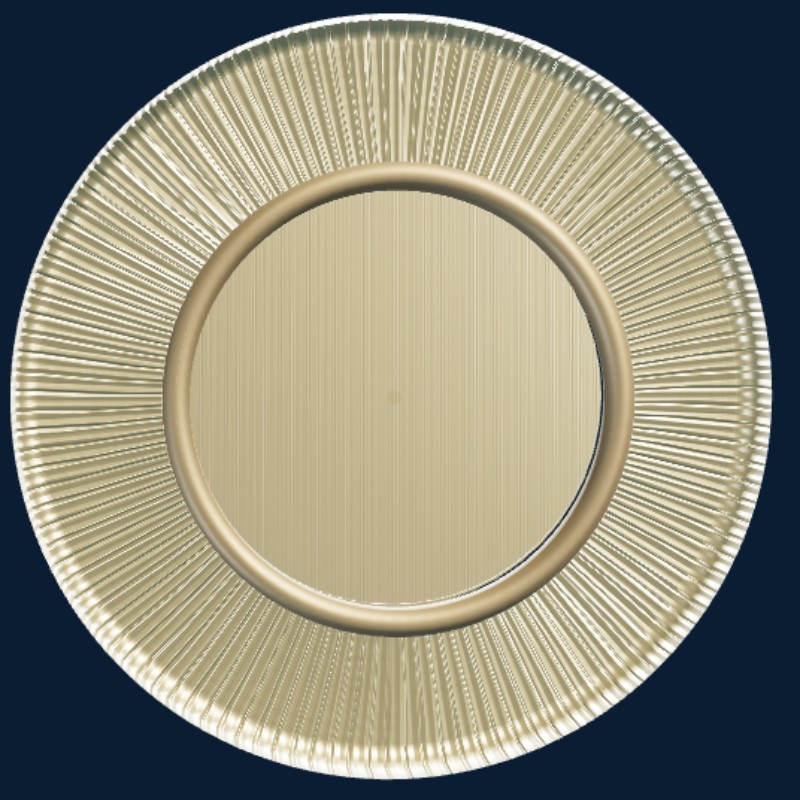
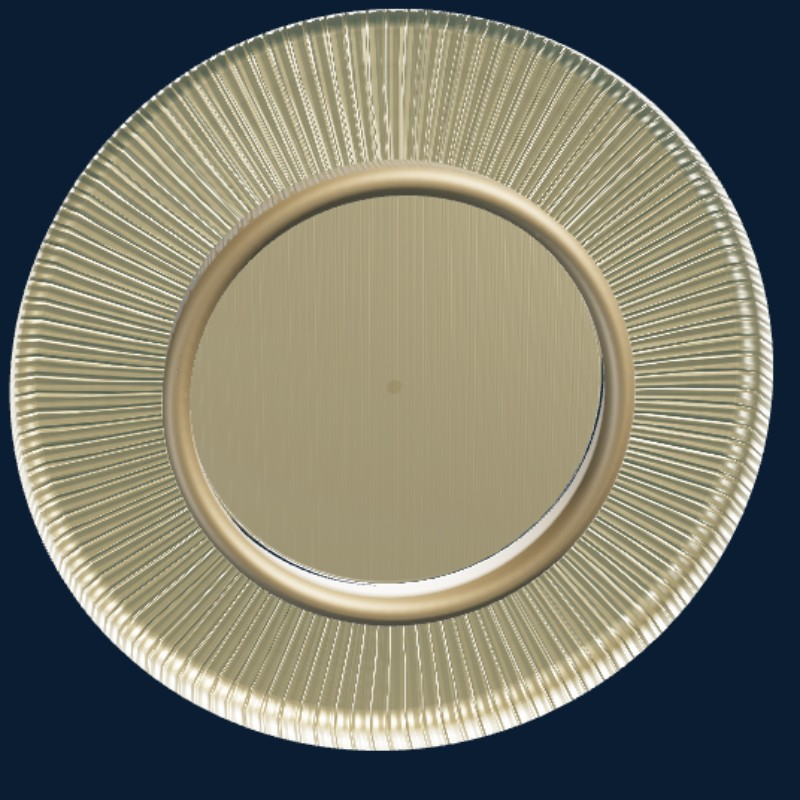
Fix seal edge-on rotation and remove hero video ghost ring
Root causes:
- Ghost ring: the hero backdrop footage (compressed in step 6) already
  contains its own rendered glass-gold medallion baked into the frame.
  Layered under the live Three.js seal at low overlay opacity, its shape
  stayed legible and read as a duplicate ring behind the real one. No
  duplicate mesh or shadow plane was involved -- confirmed via a sweep
  screenshot grid showing exactly one coherent seal shape at every angle.
- Edge-on: the ring/glass/backing are lathe solids of revolution about
  their own face-normal axis; spinning purely around world Y (perpendicular
  to that normal) is a literal coin-flip, geometrically edge-on for an
  instant every 180 degrees regardless of camera position -- confirmed
  algebraically (normal.z = cosphi * cos(tilt), zero at phi=90/270 for
  any fixed tilt).

Fixes:
- hero-bg-video: blur(36px) + brightness(0.6) + saturate(0.75), scaled
  1.15x to hide blur edge falloff. Destroys the baked medallion's shape
  entirely, leaving ambient color/motion only. hero-overlay gradient
  flipped to be heaviest on the seal's side (was lightest there).
- Seal rig: added a persistent 16 degree base tilt (scrollRig.rotation.x)
  so the ring's beveled surfaces -- not just the flat face -- keep
  catching light through the rotation, and scroll-linked tilt now adds
  on top of this base instead of starting from zero.
- Idle rotation speed is now phase-warped (phi = linear - 0.24*sin(2*
[…]

diff --git a/jpm-glass-ledger/script.js b/jpm-glass-ledger/script.js
@@ -513,9 +513,28 @@ if (contactSection) {
 
   scene.add(new THREE.AmbientLight(0x223349, 0.35));
 
+  /* ---------- Base tilt: look slightly down onto the face ----------
+     The ring/glass are lathe-revolved solids whose ONLY visible
+     silhouette change under spin.rotation.y comes from spinning around
+     an axis (Y) perpendicular to the face normal (Z) — i.e. a literal
+     coin flip, which is edge-on for an instant every 180°. A pure Y-spin
+     viewed dead-on therefore always has that instant; tilting the whole
+     rig down means that instant is no longer viewed edge-on-flat but
+     from slightly above, so the ring's beveled surfaces (which are NOT
+     parallel to the flat face) keep catching light and stay legible
+     as a bright ellipse instead of vanishing to a line. */
+  const BASE_TILT_X = THREE.MathUtils.degToRad(16);
+  scrollRig.rotation.x = BASE_TILT_X;
+
   /* ---------- State 1+2: idle rotation + breathing ---------- */
   const SPIN_PERIOD = 20; // seconds per full turn (18–22s spec window)
   const SWEEP_PERIOD = 75;
+  // Ease the rotation's angular speed (not its period) so the seal
+  // lingers near face-on and passes quickly through the two edge-on
+  // instants each revolution, cutting the time spent looking thin.
+  // phi = linear - EDGE_EASE*sin(2*linear); derivative stays positive
+  // (0.52..1.48x speed) so rotation is still smooth and monotonic.
+  const EDGE_EASE = 0.24;
 
   let breatheTween = null;
   function syncBreathing() {
@@ -550,7 +569,7 @@ if (contactSection) {
       },
     })
     .to(scrollRig.scale, { x: 1.15, y: 1.15, z: 1.15, ease: "none" }, 0)
-    .to(scrollRig.rotation, { x: 0.12, ease: "none" }, 0);
+    .to(scrollRig.rotation, { x: BASE_TILT_X + 0.12, ease: "none" }, 0);
 
   /* ---------- State 4: pointer tilt (desktop > 1024px only) ---------- */
   const heroSection = document.querySelector("#hero");
@@ -599,8 +618,12 @@ if (contactSection) {
 
   gsap.ticker.add((time) => {
     // Idle rotation reads the ticker clock directly, so speed stays
-    // identical across refresh rates and frame drops.
-    spin.rotation.y = (time * Math.PI * 2) / SPIN_PERIOD;
+    // identical across refresh rates and frame drops. The linear phase
+    // is warped by EDGE_EASE so real-world speed dips near face-on
+    // (lingers) and rises near edge-on (rushes through) each half-turn,
+    // while still completing one full revolution every SPIN_PERIOD.
+    const linearPhase = (time * Math.PI * 2) / SPIN_PERIOD;
+    spin.rotation.y = linearPhase - EDGE_EASE * Math.sin(2 * linearPhase);
 
     const sweepA = (time * Math.PI * 2) / SWEEP_PERIOD;
     sweepLight.position.set(Math.cos(sweepA) * 3, Math.sin(sweepA * 0.7) * 1.6, 2 + Math.sin(sweepA) * 0.8);

diff --git a/jpm-glass-ledger/style.css b/jpm-glass-ledger/style.css
@@ -111,7 +111,12 @@ main {
 }
 
 /* Quiet backdrop footage — deliberately veiled so it reads as ambient
-   texture; the 3D seal is the hero's only moment of spectacle. */
+   texture; the 3D seal is the hero's only moment of spectacle.
+   The source footage itself contains a rendered medallion shape, which
+   without heavy blur reads as a "ghost" duplicate of the real 3D seal —
+   blur destroys that shape entirely, leaving only soft ambient color/motion.
+   Scaled up slightly so the blur's edge falloff never shows at the
+   section boundary. */
 .hero-bg-video {
   position: absolute;
   inset: 0;
@@ -120,6 +125,8 @@ main {
   object-fit: cover;
   z-index: 0;
   pointer-events: none;
+  filter: blur(36px) brightness(0.6) saturate(0.75);
+  transform: scale(1.15);
 }
 
 .hero-overlay {
@@ -127,13 +134,14 @@ main {
   inset: 0;
   z-index: 1;
   pointer-events: none;
-  /* Heavier veil than the About section (~80-85%): the footage may only
-     whisper. Slightly lighter toward the seal side for a faint glow. */
+  /* Heaviest directly behind the seal (right side) — that's exactly
+     where the footage's own medallion shape would otherwise show
+     through and compete with the real one. */
   background: linear-gradient(
     100deg,
-    rgba(11, 29, 51, 0.92) 0%,
-    rgba(11, 29, 51, 0.88) 55%,
-    rgba(11, 29, 51, 0.78) 100%
+    rgba(11, 29, 51, 0.88) 0%,
+    rgba(11, 29, 51, 0.9) 45%,
+    rgba(11, 29, 51, 0.94) 100%
   );
 }
 
